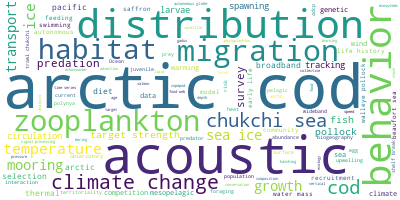
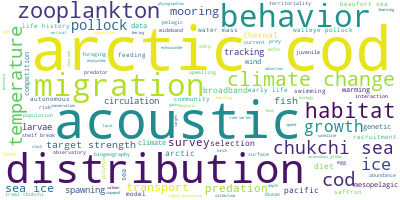
kotwicki papers

diff --git a/papers/pollock/Kotwicki2005FB.md b/papers/pollock/Kotwicki2005FB.md
@@ -1,0 +1,40 @@
+02/01/23
+## Authors:
+Kotwicki, Stan and Buckley, Troy and Honkalehto, Taina and Walters, Gary
+## Title:
+Variation in the distribution of walleye pollock (Theragra chalcogramma) with temperature and implications for seasonal migration
+## Keywords:
+pollock, migration, temperature
+## Geographic Coverage
+Eastern Bering Sea
+## Field Dates:
+N/A
+## Significance:
+Evaluating the relationship between temperature and distribution of pollock in the EBS. Most fish, especially smaller (<30 cm) move northwards with increasing temperature. They discuss the possible reasons behind migration and the implications regarding movement into the Russian EEZ.
+
+## Notes:
+Pollock are known to migrate seasonally throughout the north pacific. Generally, these are described as spring/summer migrations from spawning grounds to feeding areas. While it's assumed to occur in the EBS, data on the magnitudes, routes, and size-dependence is limited.
+
+Temperature is believed to be important to migration; pollock exhibit a preference for environmental conditions linked with food availability and avoid cold temperatures. The relationship between water temperature and the distribution of migrating species can be used to infer changes in the timing of migration.
+
+Using bottom trawl and acoustic surveys, they investigate how the variability in distribution in relation to temperature in the EBS may be explained by feeding migrations. Temperature is used to establish the timing of the surveys relative to the possible migration period. Because of length-dependent behaviours, patterns were investigated for 5 groups, and density data was scaled to each length class in each year. The slope of density vs temperature across years was calculated to determine if areas were exhibiting increasing/decreasing density with increasing/decreasing temperatures. E.g., a positive slope (>0.3) indicated that biomass increases with increases in temperature. 
+
+These slopes by station were interpolated spatially in order to create spatial regions. Spatially correlated clusters were determined, and the mean temperature and percent of total biomass in each survey was calculated to investigate the importance of each cluster. This was summarized by looking at the relationship between the mean temmperature vs the % of fish within the cluster. Clusters with the strongest relationships were chosen for additional investigation.
+
+All categories (length classes) exhibited northward and inshore shifts. For smaller fish (<30cm) in the AT survey, large reductions with temperature along rthe shelf break were offset by increases to the northwest. Overall, northward temperature reflected a shift in 50-80% of biomass into a northern area. Fish >50 cm is tough to evaluate from the acoustics since much of these fish are benthic and not effectively sampled in the AT surveys.
+
+In the bottom trawl data, the same trends, especially for small fishes were observed, with a slightly more inshore/eastward redistribution.
+
+Overall, nterannual differences in timing and migration are related to water temperature. Cold temperatures may delay the onset of spawning and delay post-spawning migrations. The warmer the summer is, the farther the 50> cm fish seem to be found from their spawning grounds. Warmer years should be more representative of what is typically seen later in the season.
+
+They did not detect major differences near the major spawning areas, which they infer that the fish had already moved out of the area (spawning had progressed already) by the time of the survey. Generally, the smaller fish are consistently distributed farther north. *Pola (1985) identified two migrations, a temperature driven migration to the northwest and a seasonal migration to the northeast into shallower water.
+
+Smaller pollock (<30 cm) appear to migrate less distance than larger fishes. Larger fish migratory behavior is difference, likely linked to the transition in prey type and feeding behavior.
+
+Reasons for migration: pollock tend to migrate with rising temperatures. They are assumed to avoid temperatures below 0, so increasing temperatures beyond 0 open up new areas for migration. Seasonal patterns in zooplankton and prey availability coincide with migration, and fish may be following their prey northwards, particularly small fishes which are primarily feeding on pelagic zooplankton.
+
+Currents in the area are 1-5 cm s-1 and north/northwest. Pollock may follow the visual cue of the transport of their prey. Further, longer days with greater light availability increase their foraging.
+
+While it's hard to assess which of these is most important, they conclude that regardless, pollock benefit from this northward migraiton. As expected, this same migration pattern is also seen in other fish populations in the northern hemisphere, such as pelagic and semi-pelagic species in the western North Pacific and the Barents Sea.
+
+More pollock may be leaving the survey area with increasing temperatures, thus further data is needed to evaluate the movement of fishes in the russian zone and the northern Bering Sea. Further changes in climate may change the migration timing and period, alter the amount of fish moving into the Russian EEZ, thus changing the biomass available to the fishery.

diff --git a/papers/pollock/Kotwicki2015JMS.md b/papers/pollock/Kotwicki2015JMS.md
@@ -1,0 +1,22 @@
+02/01/23
+## Authors:
+Kotwicki, Stan and Horne, John and Punt, Andre and Ianelli, James
+## Title:
+Factors affecting the availability of walleye pollock to acoustic and bottom trawl survey gear
+## Keywords:
+pollock, availability, distribution, selectivity 
+## Geographic Coverage
+Eastern Bering Sea
+## Field Dates:
+N/A
+## Significance:
+Evaluation and comparison of pollock availability to bottom trawl and acoustic water column data as a function of environment and size.
+
+## Notes:
+Bottom trawl catches are restricted to the effective fishing height of the net, while acoustic data are limited by the acoustic deadzone, thus the relationship between these two methods of observation is tricky. However, catchability (q) is spatially and temporally variable across surveys, so achieving reliable comparision between multiple survey methodologies may be meaningless. For bottom trawls, you need to know whats above them, and for acoustics, you need to know whats in the ADZ. Thus, by using both at the same time you can establis the relationship between the two. However this is not as simple as qBT = 1-qA, as a large portion of the water column is sampled by both gear types.
+
+They used trawls where pollock were >75% of the catch by abundance, and then used empiracal relationships to convert the pollock in the depths of the effectice fishing height of the bottom trawl to sA for comparision to the acoustics.
+
+Most of the pollock were available to the bottom trawl at all times (q >.9) with much less (q=.3) available to the acoustics. The availability of pollock tot he BT was lowest in the darkest conditions, increasing with increasing light levels. Fork length was also a key predictor, with limited impact of pollock density. Predicted acoustic availability was much lower, with surface temperature and fork length being singificant predictors.
+
+Near bottom light levels and bottom depth are the most important variables. Fork length as a factor indicated that smaller fish tended to be located within the effective height for acoustic observations while larger fish availability was higher for the bottom trawl. Sediment size indicated that pollock may be likely to be lower to the seabed in sandy/muddy environments than in rocky conditions.
